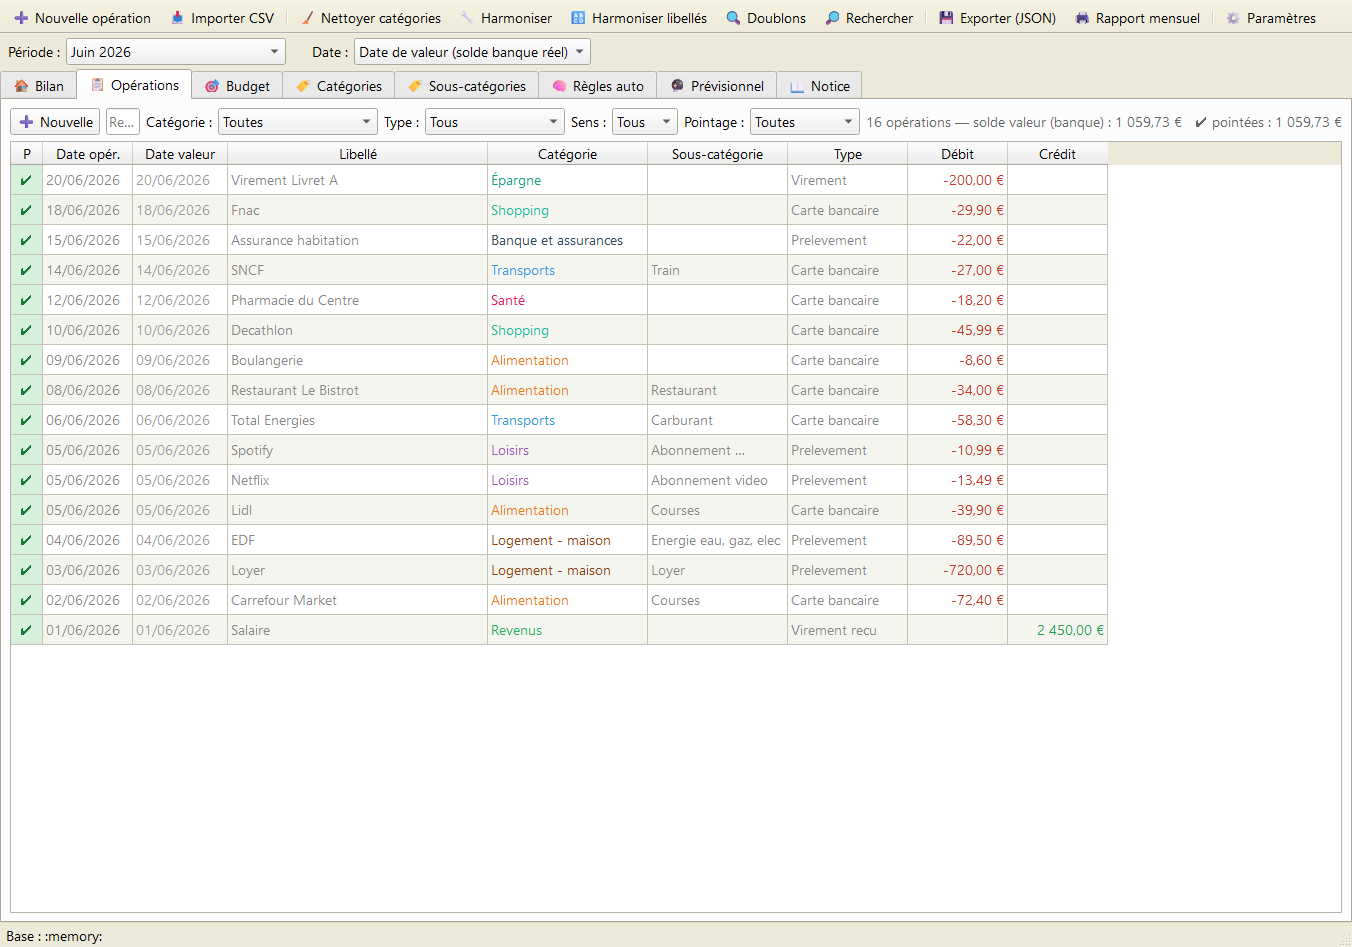
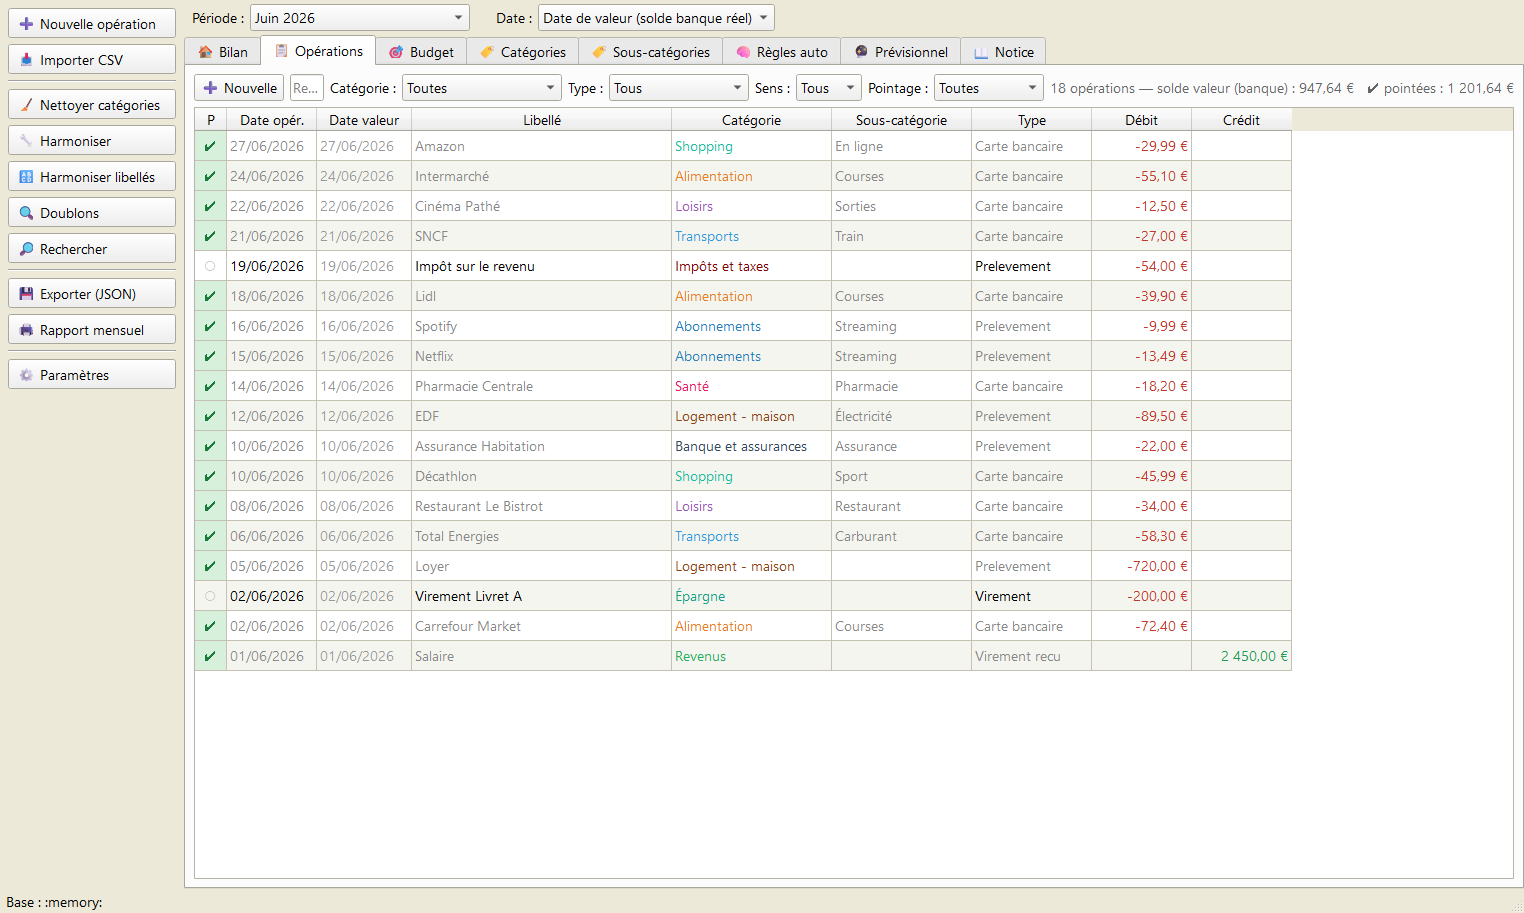
Doc : captures a jour (menu vertical) + textes 'barre d'outils' corriges
- Recapture des 4 visuels promo (Bilan, Operations, Budget, Previsionnel) avec la nouvelle interface a menu vertical a gauche et des donnees d'exemple (README + vitrine GitHub Pages).

- README (arborescence) et message d'accueil : 'barre d'outils' -> 'menu' (la barre d'outils horizontale n'existe plus).

Changed region(s): [[0.0, 0.0, 1.0, 1.0]]

diff --git a/comptesbudget/ui/main_window.py b/comptesbudget/ui/main_window.py
@@ -332,7 +332,7 @@ class MainWindow(QMainWindow):
             "Pour bien démarrer, indiquez votre <b>solde de départ</b> : "
             "le solde de votre compte à la date de début choisie.<br><br>"
             "Vous pourrez le modifier à tout moment via le bouton "
-            "« Paramètres » de la barre d'outils.")
+            "« Paramètres » du menu de gauche.")
         self.action_settings()
 
     def action_harmonize(self):

diff --git a/README.md b/README.md
@@ -150,7 +150,7 @@ comptesbudget/
     ├── assistants.py        Harmonisation, pré-remplissage du prévisionnel
     ├── report.py            Rapport mensuel (HTML, aperçu, PDF, impression)
     ├── search.py            Recherche globale (Ctrl+F)
-    ├── main_window.py       MainWindow : assemble onglets et barre d'outils
+    ├── main_window.py       MainWindow : assemble onglets et menu d'actions
     └── views/
         ├── operations.py    Vue Opérations
         ├── bilan.py         Vue Bilan
